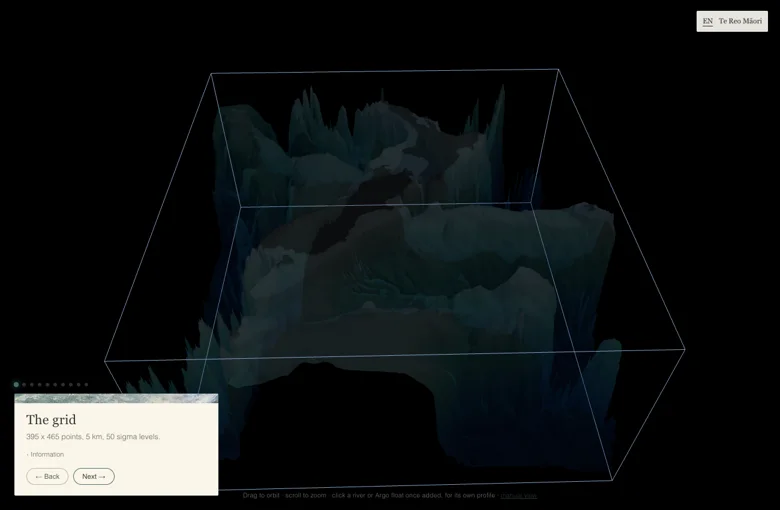
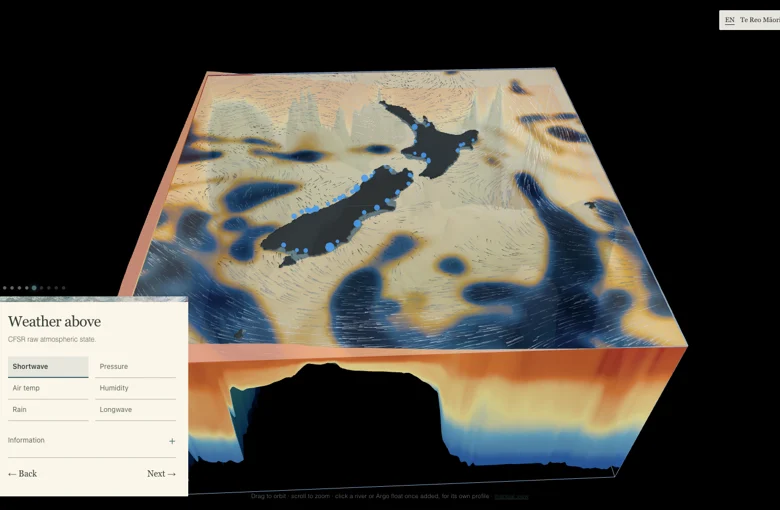
Refine model preview controls with ruled fields and editorial navigation

diff --git a/themes/preview.css b/themes/preview.css
@@ -78,3 +78,71 @@ html[data-theme="etretat"] {
         background-image:url(profiles.svg), repeating-linear-gradient(0deg,transparent 0 47px,#71999826 47px 48px);
     }
 }
+
+/* A compact field selector, a quiet disclosure, and directional navigation. */
+#step-card { display:flex; flex-direction:column; padding:22px; }
+#step-title { font-size:26px; letter-spacing:-.025em; margin-bottom:8px; }
+#step-kid { font-size:12px; line-height:1.55; margin-bottom:12px; }
+#step-card .field-buttons {
+    order:2; gap:0 12px; border:0; padding:0; margin:8px 0 12px;
+    grid-template-columns:repeat(2,minmax(0,1fr));
+}
+#step-card .field-buttons.visible { display:grid; }
+#step-card .field-buttons button {
+    position:relative; border:0; border-bottom:1px solid var(--line);
+    border-radius:0; background:none; color:var(--muted); text-align:left;
+    min-height:38px; padding:9px 8px; font:400 12px/1.35 system-ui,sans-serif;
+}
+#step-card .field-buttons button:hover { background:var(--panel-2); color:var(--ink); }
+#step-card .field-buttons button.active {
+    color:var(--ink); background:color-mix(in srgb,var(--accent) 11%,transparent);
+    border-bottom:2px solid var(--accent); padding-bottom:8px; font-weight:600;
+}
+#step-card .field-buttons button.source-toggle-btn { margin-left:0; }
+#step-card .field-buttons select {
+    grid-column:1/-1; border-radius:0; background:var(--panel);
+    min-height:40px; color:var(--ink); padding:8px; font-size:12px;
+}
+#step-card .field-buttons select option { color:var(--ink); background:var(--panel); }
+#step-card .frames-controls.visible { display:flex; gap:10px; align-items:center; }
+#step-card .frames-controls button { border:1px solid var(--line); text-align:center; padding:8px 12px; }
+#step-card .frames-controls input { min-width:0; flex:1; }
+#step-card #frames-day-label { color:var(--ink); }
+#step-card > details { order:5; margin-top:4px; }
+#step-card > details > summary {
+    display:flex; justify-content:space-between; align-items:center; min-height:36px;
+    font:400 12px/1.4 system-ui,sans-serif!important; color:var(--muted)!important;
+    cursor:pointer;
+}
+#step-card > details > summary::after { content:"+"; color:var(--accent); font:400 20px/1 Georgia,serif; }
+#step-card > details[open] > summary::after { content:"−"; }
+#step-card > details > summary:hover { color:var(--ink)!important; }
+#step-card #parts-legend { order:1; }
+#step-card #river-detail, #step-card #argo-detail { order:3; }
+#step-card #step-limitation { order:6; }
+#step-card #step-nav {
+    order:10; justify-content:space-between; align-items:center;
+    border-top:1px solid var(--line); padding-top:10px; margin-top:12px;
+}
+#step-card #step-nav button {
+    border:0; border-radius:0; padding:8px 0; min-height:36px;
+    color:var(--ink); font:400 15px/1.3 Georgia,serif;
+}
+#step-card #step-nav button:hover { text-decoration:underline; text-underline-offset:5px; }
+#step-card :is(button,select,summary):focus-visible {
+    outline:2px solid var(--accent); outline-offset:3px;
+}
+[data-theme="watch"] #step-card #step-nav button { font:400 13px/1.3 ui-monospace,monospace; }
+[data-theme="etretat"] #step-card::before { height:10px; margin:-22px -22px 20px; }
+@media(max-width:640px) {
+    #step-panel #step-card { overflow-y:auto; max-height:48dvh; }
+    #step-card .field-buttons button, #step-card #step-nav button { min-height:44px; }
+}
+#step-dots { gap:5px; margin-bottom:14px; }
+#step-dots .step-dot {
+    position:relative; width:14px; height:3px; border:0; border-radius:0;
+    background:#718079; box-shadow:none; transform:none;
+}
+#step-dots .step-dot::before { content:""; position:absolute; inset:-8px -2px; }
+#step-dots .step-dot.active { background:var(--accent); }
+#step-dots .step-dot.done { background:var(--ink); }

diff --git a/themes/index.html b/themes/index.html
@@ -11,9 +11,9 @@ h2{font:400 clamp(24px,3vw,35px)/1.2 Georgia,serif;margin:0 0 12px}
 .choice:is(:hover,:focus-visible) h2{text-decoration:underline;text-underline-offset:.15em}
 .pair{display:grid;grid-template-columns:1fr 1fr;gap:6px}.pair iframe{width:100%;aspect-ratio:780/510;border:0;pointer-events:none}.pair img{display:block;width:100%;height:auto}
 @media(max-width:580px){.pair{grid-template-columns:1fr}.choice{margin-bottom:28px}}
-</style></head><body><main><h1>Model previews</h1><a class="choice" href="../?theme=soundings"><h2>Soundings</h2><div class="pair"><iframe src="loading.html?theme=soundings" title="soundings loading animation" loading="lazy" tabindex="-1"></iframe><img alt="" src="soundings-ui.webp" width="780" height="510"></div></a>
-<a class="choice" href="../?theme=watch"><h2>Night watch</h2><div class="pair"><iframe src="loading.html?theme=watch" title="watch loading animation" loading="lazy" tabindex="-1"></iframe><img alt="" src="watch-ui.webp" width="780" height="510"></div></a>
-<a class="choice" href="../?theme=etretat"><h2>Étretat</h2><div class="pair"><iframe src="loading.html?theme=etretat" title="etretat loading animation" loading="lazy" tabindex="-1"></iframe><img alt="" src="etretat-ui.webp" width="780" height="510"></div></a></main>
+</style></head><body><main><h1>Model previews</h1><a class="choice" href="../?theme=soundings"><h2>Soundings</h2><div class="pair"><iframe src="loading.html?theme=soundings" title="soundings loading animation" loading="lazy" tabindex="-1"></iframe><img alt="" src="soundings-ui.webp?v=20261112-controls" width="780" height="510"></div></a>
+<a class="choice" href="../?theme=watch"><h2>Night watch</h2><div class="pair"><iframe src="loading.html?theme=watch" title="watch loading animation" loading="lazy" tabindex="-1"></iframe><img alt="" src="watch-ui.webp?v=20261112-controls" width="780" height="510"></div></a>
+<a class="choice" href="../?theme=etretat"><h2>Étretat</h2><div class="pair"><iframe src="loading.html?theme=etretat" title="etretat loading animation" loading="lazy" tabindex="-1"></iframe><img alt="" src="etretat-ui.webp?v=20261112-controls" width="780" height="510"></div></a></main>
 <script>
 const names = { "Model previews":"Ngā arokite tauira", "Soundings":"Ngā hōhonutanga", "Night watch":"Te tūtei pō" };
 try {

diff --git a/index.html b/index.html
@@ -14,7 +14,7 @@
         document.documentElement.dataset.theme = previewTheme;
         const sheet = document.createElement("link");
         sheet.rel = "stylesheet";
-        sheet.href = "themes/preview.css?v=20261112-motion";
+        sheet.href = "themes/preview.css?v=20261112-controls";
         document.head.append(sheet);
     }
 </script>
@@ -51,7 +51,7 @@
                 <div id="step-kid"></div>
                 <div id="parts-legend"></div>
                 <details>
-                    <summary style="cursor:pointer;font-size:11px;color:var(--muted)">&rsaquo; Information</summary>
+                    <summary style="cursor:pointer;font-size:11px;color:var(--muted)">Information</summary>
                     <div id="step-detail-body"></div>
                 </details>
                 <div id="step-limitation"></div>
